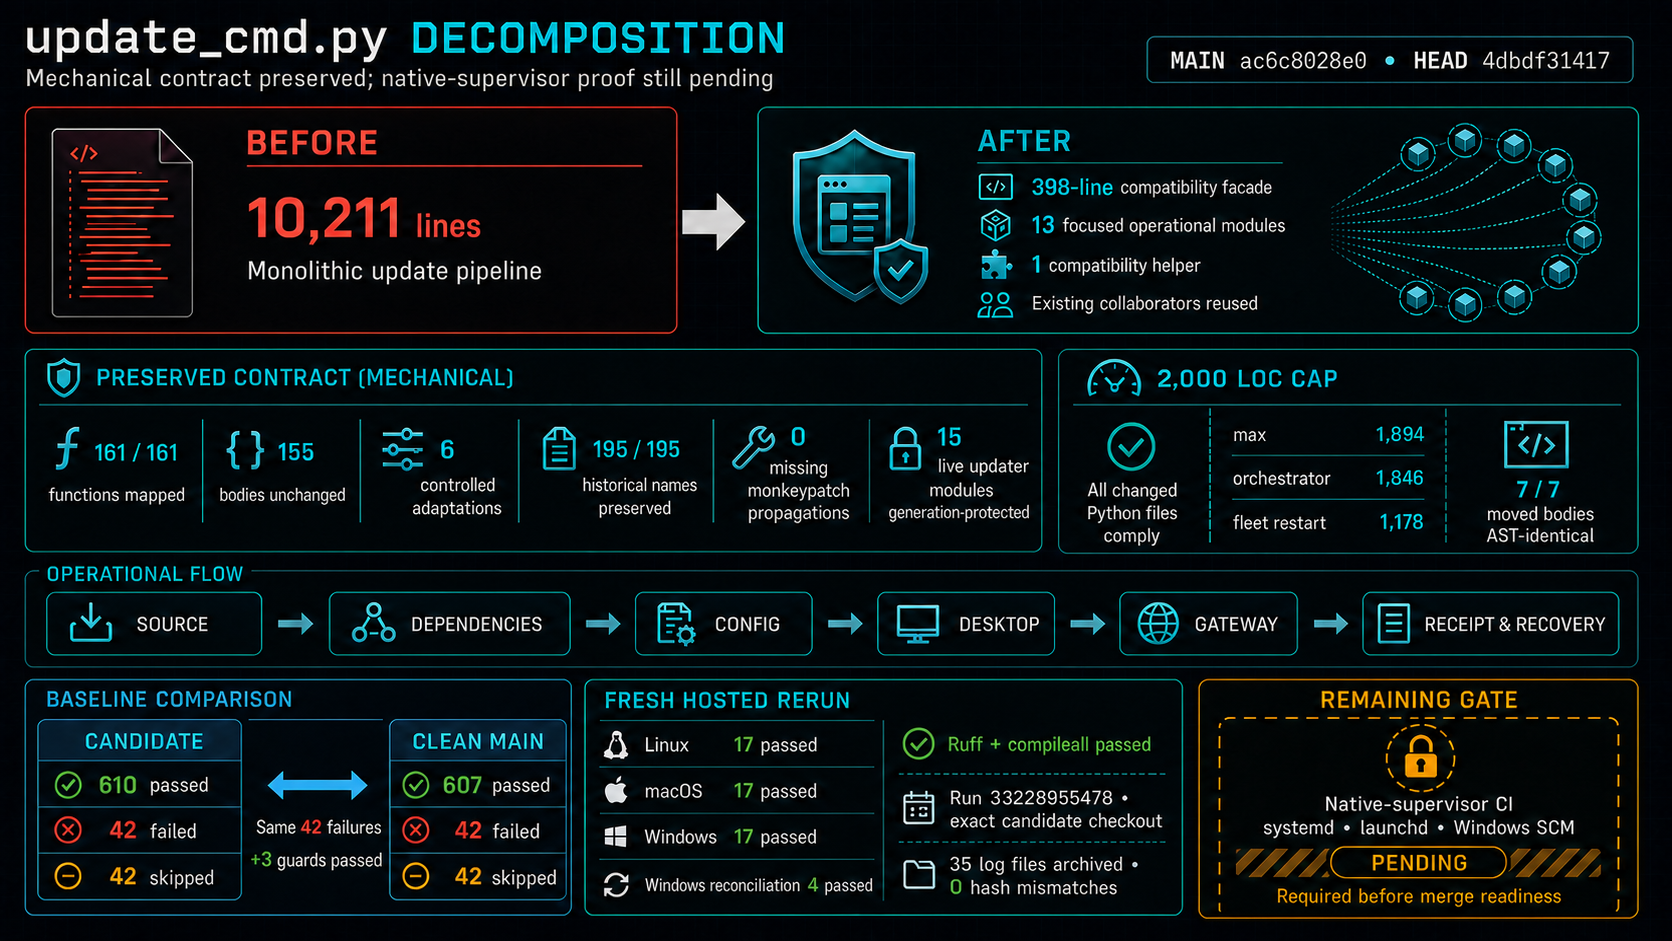
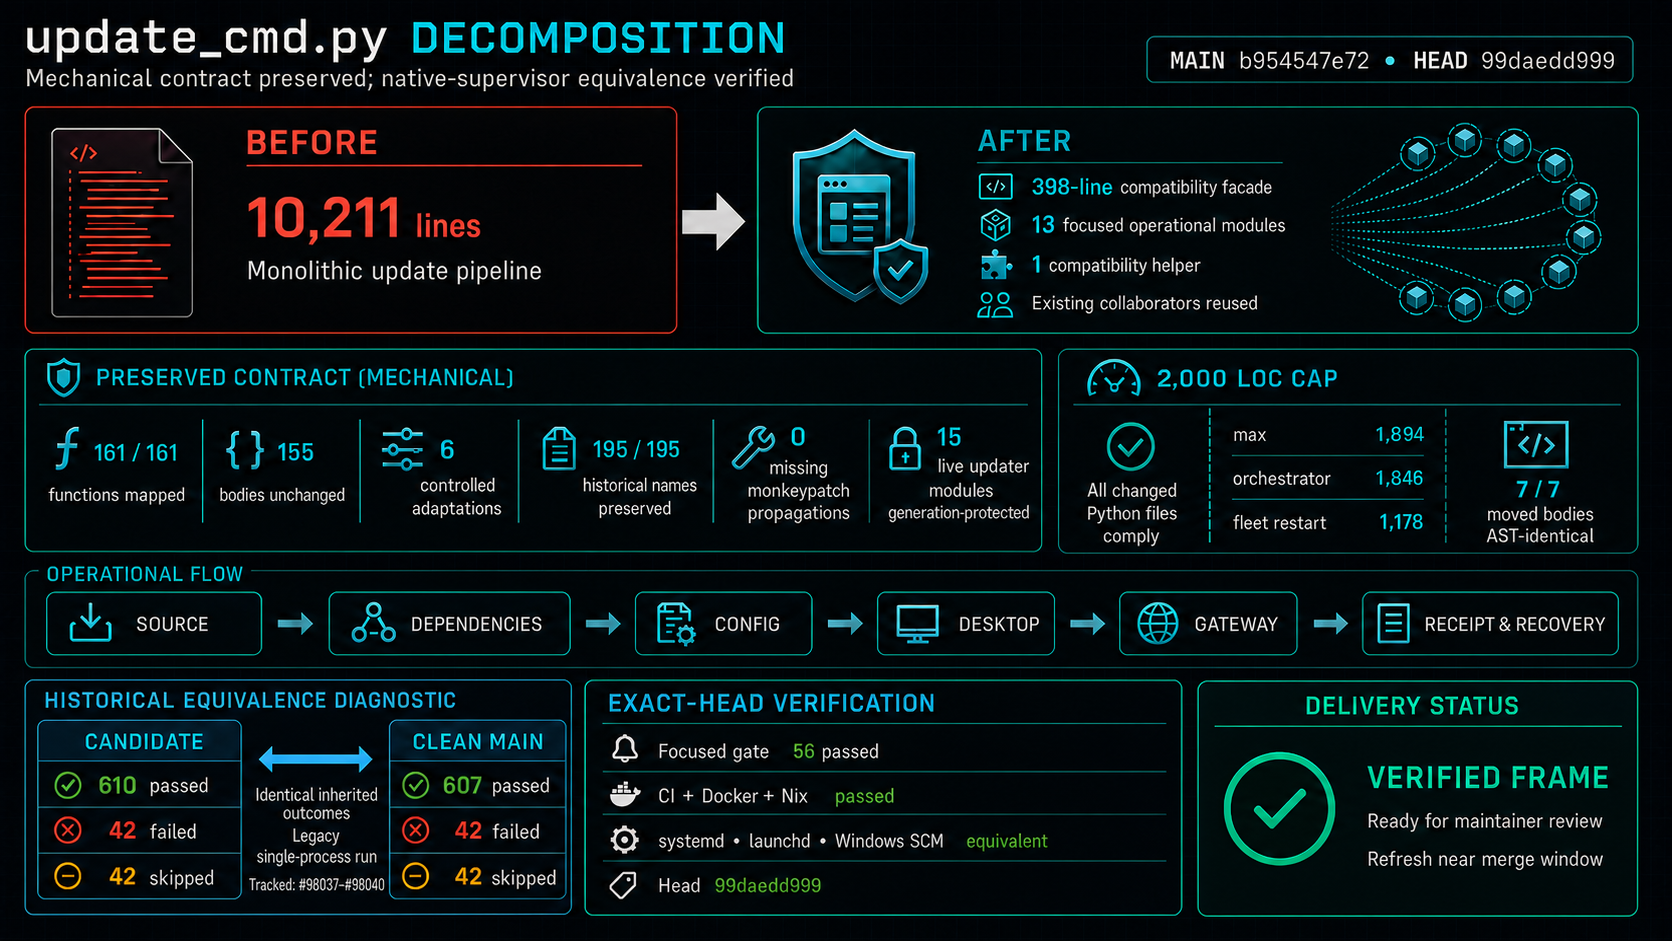
docs(review): clarify inherited updater test failures

diff --git a/.review-evidence/update-cmd-decomposition/ACCEPTANCE_MATRIX.md b/.review-evidence/update-cmd-decomposition/ACCEPTANCE_MATRIX.md
@@ -14,7 +14,8 @@
 | Backup failures cannot abort the update through the moved logger calls | TDD regressions for invalid mode and snapshot failure | **confirmed** | RED: two `NameError`s; GREEN: both tests pass |
 | The modified-skill hint cannot be borrowed across files | Per-file invariant helper plus negative control | **confirmed** | `test_notice_hint_cannot_be_borrowed_from_the_next_file` passes |
 | Focused compatibility gate is green | Focused `pytest` command in `REPRODUCE.md` | **confirmed** | `56 passed in 8.15s` on exact rebased head |
-| Broad local behavior is equivalent to clean main | Same test selection on candidate and detached clean main | **confirmed** | candidate `610/42/42`; main `607/42/42`; identical 42 failures |
+| Historical single-process diagnostic behavior is equivalent to clean main | Same direct `python -m pytest` selection on candidate and detached clean main | **confirmed within that diagnostic** | candidate `610/42/42`; main `607/42/42`; identical inherited node outcomes. This was not the canonical per-file runner and is not a current-CI result. |
+| The inherited diagnostic failures have independent ownership | Canonical per-file follow-up on clean main plus causal controls | **confirmed** | `598 passed`, `12 failed`, `42 skipped`, plus one passing file exceeding the 300-second per-file limit; tracked separately in [#98037](https://github.com/NousResearch/hermes-agent/issues/98037), [#98038](https://github.com/NousResearch/hermes-agent/issues/98038), [#98039](https://github.com/NousResearch/hermes-agent/issues/98039), and [#98040](https://github.com/NousResearch/hermes-agent/issues/98040). None is caused by this refactor. |
 | The exact candidate passes the focused decomposition gate on hosted Linux, macOS, and Windows | Fresh manually dispatched fork-only workflow with the candidate fixed by SHA | **confirmed** | checkout `4dbdf314179f60999eb94e6ea5bc81367f2ea351`; `17 passed` on each OS; [rerun 33228955478](https://github.com/cervantesh/hermes-agent/actions/runs/33228955478) |
 | Hosted Windows broad behavior matches the baseline | Same broad updater selection on candidate and base | **confirmed** | candidate `635/19/40`; base `632/19/40`; identical 19 failures and three additional candidate passes |
 | Windows restart reconciliation remains green after extraction | Focused hosted-Windows guard set in the fresh rerun | **confirmed** | `4 passed`; [rerun 33228955478](https://github.com/cervantesh/hermes-agent/actions/runs/33228955478) |

diff --git a/.review-evidence/update-cmd-decomposition/README.md b/.review-evidence/update-cmd-decomposition/README.md
@@ -23,8 +23,12 @@ It lives on a fork-only evidence branch and is not part of the product PR.
 - Static compatibility audits found no missing monkeypatch propagation across
   the extracted consumers.
 - Every changed Python file is below the 2,000 physical-line cap.
-- Candidate and clean-base broad runs share the same 42 failing node IDs; the
-  candidate adds three passing regression guards.
+- A historical single-process diagnostic produced the same 42 failing node IDs
+  on candidate and clean base, while the candidate added three passing guards.
+  That command is not the canonical per-file runner and is not current-CI
+  status. A later canonical clean-main audit assigned the independently
+  closable test defects to #98037, #98038, #98039, and #98040; none is caused
+  by this refactor.
 - Hosted focused checks passed on Linux, macOS, and Windows.
 - The controlled Linux real update path produced exit `0`, the same five
   observable invariants, and an `equivalent` comparator verdict before/after.
@@ -39,7 +43,8 @@ It lives on a fork-only evidence branch and is not part of the product PR.
 - `REVIEW_ADJUDICATION.md` — independent findings, adjudication, and TDD fixes.
 - `REPRODUCE.md` — commands and limits for repeating the checks.
 - `VERIFICATION_RESULTS.txt` — compact machine-oriented result ledger.
-- `KNOWN_BASELINE_FAILURES.txt` — identical inherited failure set.
+- `KNOWN_BASELINE_FAILURES.txt` — node IDs from the historical noncanonical
+  single-process diagnostic; retained as comparison provenance, not current CI.
 - `UPSTREAM_CI.md` — initial red classification, two-line metadata correction,
   and exact-current-head upstream CI receipt.
 - `linux-e2e/` — controlled real-path workflow and machine verdict;

diff --git a/.review-evidence/update-cmd-decomposition/REPRODUCE.md b/.review-evidence/update-cmd-decomposition/REPRODUCE.md
@@ -74,7 +74,12 @@ modules using attribute-free AST dumps. Expected results:
 - `update_fleet_restart.py 1178`;
 - `MOVED_FUNCTIONS 7`; `MISSING []`; `CHANGED []`.
 
-## 5. Broad updater matrix
+## 5. Historical broad diagnostic (noncanonical)
+
+This command preserves the original candidate/base comparison frame. It runs
+the selection in one pytest process, so it is not the repository's canonical
+per-file-isolated runner and its failure count must not be presented as current
+CI status.
 
 ```powershell
 $tests = @(
@@ -94,8 +99,14 @@ Expected in the reviewed Windows environment:
 - the 42 failure node IDs are identical.
 
 Do not infer equivalence from the counts alone. Capture and compare the failed
-node IDs. Environment-sensitive failures included absent `psutil`, POSIX/macOS
-controls executed on Windows, and existing test-isolation behavior.
+node IDs. A later canonical per-file audit on clean main reduced the actionable
+set to 12 failed assertions plus one passing file that exceeded the 300-second
+file limit. Their independent closure contracts are tracked in
+[#98037](https://github.com/NousResearch/hermes-agent/issues/98037),
+[#98038](https://github.com/NousResearch/hermes-agent/issues/98038),
+[#98039](https://github.com/NousResearch/hermes-agent/issues/98039), and
+[#98040](https://github.com/NousResearch/hermes-agent/issues/98040). They are
+not candidate regressions and are outside this refactor's closure predicate.
 
 ## 6. Recompute file identity
 
